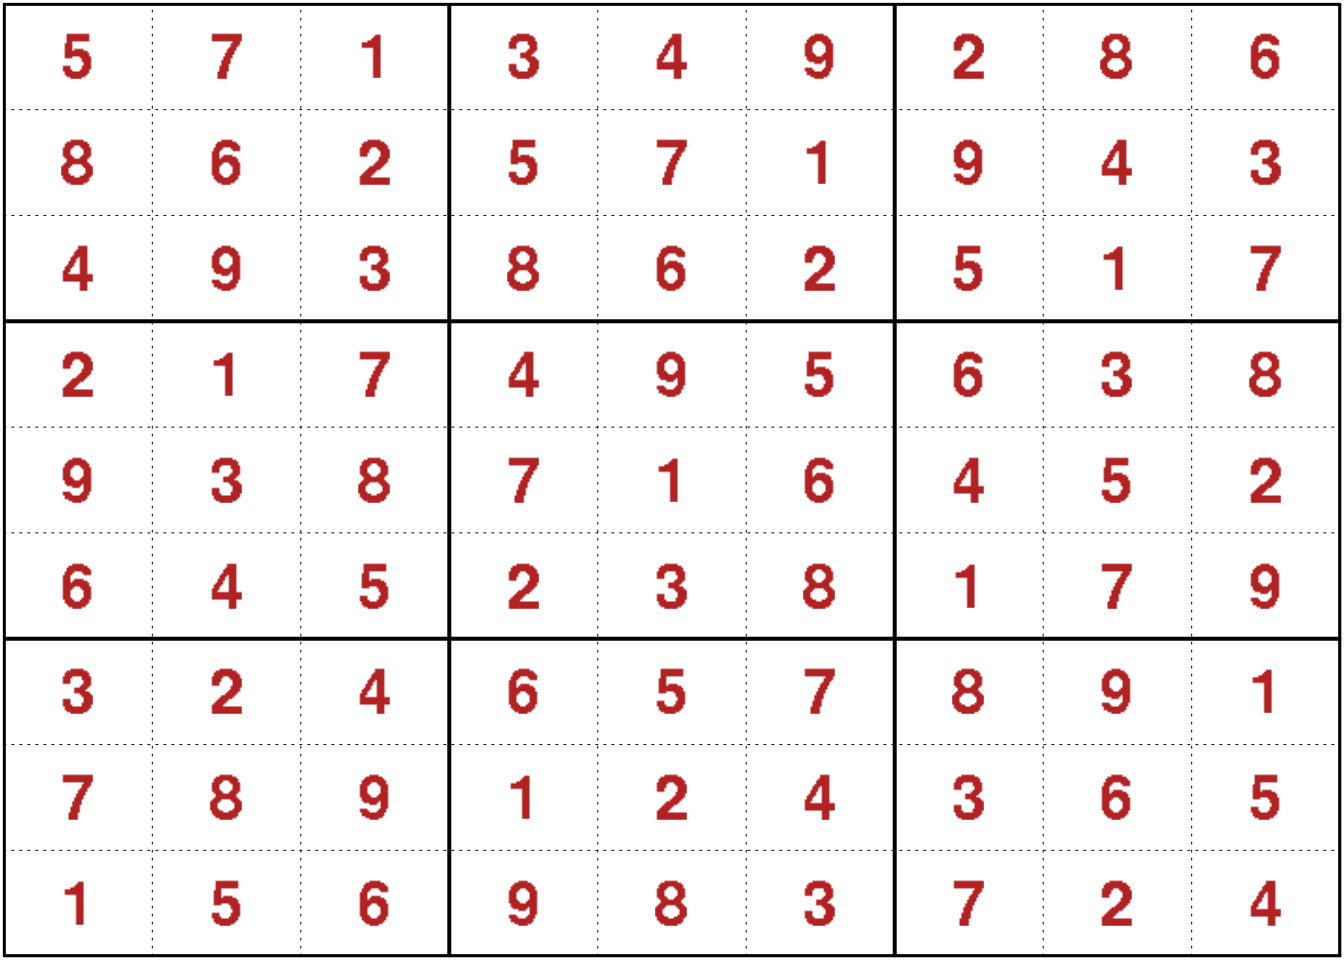
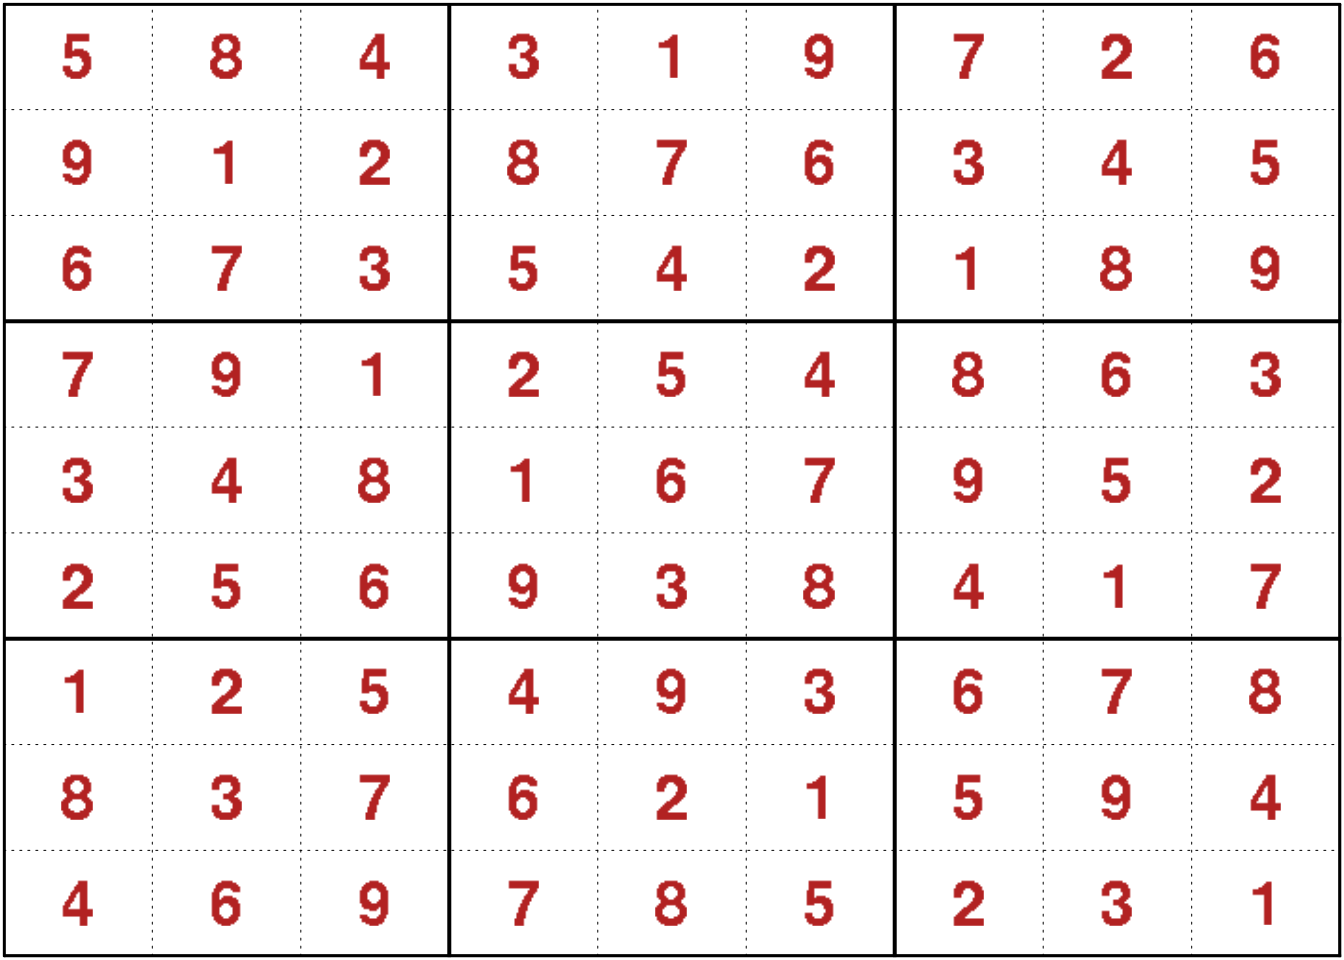
update use cases
git-svn-id: svn://svn.r-forge.r-project.org/svnroot/roi@596 edb9625f-4e0d-4859-8d74-9fd3b1da38cb

diff --git a/www/use_case_sudoku.html b/www/use_case_sudoku.html
@@ -488,161 +488,161 @@ sudoku_solution</code></pre></div>
 <pre><code>## [[1]]
 ##                           
 ##  + - - - + - - - + - - - +
-##  | 5 7 1 | 3 4 9 | 2 8 6 |
-##  | 8 6 2 | 5 7 1 | 9 4 3 |
-##  | 4 9 3 | 8 6 2 | 5 1 7 |
+##  | 5 8 4 | 3 1 9 | 7 2 6 |
+##  | 9 1 2 | 8 7 6 | 3 4 5 |
+##  | 6 7 3 | 5 4 2 | 1 8 9 |
 ##  + - - - + - - - + - - - +
-##  | 2 1 7 | 4 9 5 | 6 3 8 |
-##  | 9 3 8 | 7 1 6 | 4 5 2 |
-##  | 6 4 5 | 2 3 8 | 1 7 9 |
+##  | 7 9 1 | 2 5 4 | 8 6 3 |
+##  | 3 4 8 | 1 6 7 | 9 5 2 |
+##  | 2 5 6 | 9 3 8 | 4 1 7 |
 ##  + - - - + - - - + - - - +
-##  | 3 2 4 | 6 5 7 | 8 9 1 |
-##  | 7 8 9 | 1 2 4 | 3 6 5 |
-##  | 1 5 6 | 9 8 3 | 7 2 4 |
+##  | 1 2 5 | 4 9 3 | 6 7 8 |
+##  | 8 3 7 | 6 2 1 | 5 9 4 |
+##  | 4 6 9 | 7 8 5 | 2 3 1 |
 ##  + - - - + - - - + - - - +
 ## 
 ## [[2]]
 ##                           
 ##  + - - - + - - - + - - - +
-##  | 2 7 1 | 5 6 9 | 4 8 3 |
-##  | 8 6 4 | 3 7 1 | 2 5 9 |
-##  | 5 9 3 | 8 4 2 | 7 1 6 |
+##  | 2 4 8 | 3 1 6 | 9 7 5 |
+##  | 5 1 6 | 8 7 9 | 3 4 2 |
+##  | 3 9 7 | 5 4 2 | 1 8 6 |
 ##  + - - - + - - - + - - - +
-##  | 1 2 6 | 7 9 4 | 5 3 8 |
-##  | 3 8 7 | 6 1 5 | 9 4 2 |
-##  | 9 4 5 | 2 3 8 | 1 6 7 |
+##  | 7 8 1 | 9 5 4 | 6 2 3 |
+##  | 6 3 4 | 1 2 7 | 8 5 9 |
+##  | 9 2 5 | 6 3 8 | 4 1 7 |
 ##  + - - - + - - - + - - - +
-##  | 6 3 2 | 4 5 7 | 8 9 1 |
-##  | 7 5 9 | 1 8 6 | 3 2 4 |
-##  | 4 1 8 | 9 2 3 | 6 7 5 |
+##  | 1 5 2 | 4 9 3 | 7 6 8 |
+##  | 8 7 3 | 2 6 1 | 5 9 4 |
+##  | 4 6 9 | 7 8 5 | 2 3 1 |
 ##  + - - - + - - - + - - - +
 ## 
 ## [[3]]
 ##                           
 ##  + - - - + - - - + - - - +
-##  | 4 7 1 | 2 3 9 | 6 8 5 |
-##  | 8 6 2 | 4 5 7 | 9 1 3 |
-##  | 5 9 3 | 8 1 6 | 4 2 7 |
+##  | 2 8 4 | 3 1 9 | 7 6 5 |
+##  | 9 1 5 | 8 7 6 | 3 4 2 |
+##  | 3 7 6 | 5 4 2 | 1 8 9 |
 ##  + - - - + - - - + - - - +
-##  | 1 2 6 | 7 9 4 | 5 3 8 |
-##  | 9 3 8 | 1 6 5 | 7 4 2 |
-##  | 7 4 5 | 3 2 8 | 1 6 9 |
+##  | 7 2 1 | 9 3 4 | 8 5 6 |
+##  | 6 5 8 | 1 2 7 | 9 3 4 |
+##  | 4 9 3 | 6 5 8 | 2 1 7 |
 ##  + - - - + - - - + - - - +
-##  | 3 5 4 | 6 7 2 | 8 9 1 |
-##  | 2 8 9 | 5 4 1 | 3 7 6 |
-##  | 6 1 7 | 9 8 3 | 2 5 4 |
+##  | 1 3 2 | 4 9 5 | 6 7 8 |
+##  | 8 4 7 | 2 6 3 | 5 9 1 |
+##  | 5 6 9 | 7 8 1 | 4 2 3 |
 ##  + - - - + - - - + - - - +
 ## 
 ## [[4]]
 ##                           
 ##  + - - - + - - - + - - - +
-##  | 5 7 1 | 4 3 9 | 2 8 6 |
-##  | 8 6 4 | 2 7 5 | 9 1 3 |
-##  | 2 9 3 | 8 1 6 | 4 5 7 |
+##  | 8 5 4 | 3 1 9 | 2 7 6 |
+##  | 9 1 6 | 8 7 2 | 3 4 5 |
+##  | 3 7 2 | 5 4 6 | 1 8 9 |
 ##  + - - - + - - - + - - - +
-##  | 3 2 7 | 5 9 1 | 6 4 8 |
-##  | 9 1 8 | 7 6 4 | 5 3 2 |
-##  | 6 4 5 | 3 2 8 | 1 7 9 |
+##  | 7 3 1 | 9 6 4 | 8 5 2 |
+##  | 2 9 8 | 1 5 7 | 6 3 4 |
+##  | 6 4 5 | 2 3 8 | 9 1 7 |
 ##  + - - - + - - - + - - - +
-##  | 4 3 2 | 6 5 7 | 8 9 1 |
-##  | 7 5 9 | 1 8 2 | 3 6 4 |
-##  | 1 8 6 | 9 4 3 | 7 2 5 |
+##  | 1 2 3 | 4 9 5 | 7 6 8 |
+##  | 4 8 7 | 6 2 3 | 5 9 1 |
+##  | 5 6 9 | 7 8 1 | 4 2 3 |
 ##  + - - - + - - - + - - - +
 ## 
 ## [[5]]
 ##                           
 ##  + - - - + - - - + - - - +
-##  | 2 7 1 | 4 3 5 | 6 8 9 |
-##  | 8 6 4 | 2 7 9 | 5 1 3 |
-##  | 5 9 3 | 8 6 1 | 2 7 4 |
+##  | 9 8 4 | 3 1 2 | 6 7 5 |
+##  | 6 1 5 | 8 7 9 | 3 4 2 |
+##  | 2 3 7 | 5 4 6 | 1 8 9 |
 ##  + - - - + - - - + - - - +
-##  | 3 2 6 | 1 9 4 | 7 5 8 |
-##  | 7 1 8 | 3 5 6 | 9 4 2 |
-##  | 9 4 5 | 7 2 8 | 1 3 6 |
+##  | 7 5 1 | 9 6 4 | 8 2 3 |
+##  | 8 9 2 | 1 3 7 | 4 5 6 |
+##  | 3 4 6 | 2 5 8 | 9 1 7 |
 ##  + - - - + - - - + - - - +
-##  | 6 3 7 | 5 4 2 | 8 9 1 |
-##  | 4 8 9 | 6 1 7 | 3 2 5 |
-##  | 1 5 2 | 9 8 3 | 4 6 7 |
+##  | 5 2 3 | 4 9 1 | 7 6 8 |
+##  | 4 7 8 | 6 2 3 | 5 9 1 |
+##  | 1 6 9 | 7 8 5 | 2 3 4 |
 ##  + - - - + - - - + - - - +
 ## 
 ## [[6]]
 ##                           
 ##  + - - - + - - - + - - - +
-##  | 5 7 1 | 3 4 2 | 6 8 9 |
-##  | 8 6 4 | 5 7 9 | 2 1 3 |
-##  | 2 9 3 | 8 6 1 | 7 4 5 |
+##  | 2 8 4 | 3 1 9 | 6 7 5 |
+##  | 6 1 5 | 8 7 2 | 3 4 9 |
+##  | 9 3 7 | 5 4 6 | 1 8 2 |
 ##  + - - - + - - - + - - - +
-##  | 1 2 6 | 7 9 5 | 4 3 8 |
-##  | 3 8 7 | 4 1 6 | 9 5 2 |
-##  | 9 4 5 | 2 3 8 | 1 6 7 |
+##  | 7 2 1 | 6 5 4 | 9 3 8 |
+##  | 8 9 6 | 1 3 7 | 2 5 4 |
+##  | 5 4 3 | 9 2 8 | 7 1 6 |
 ##  + - - - + - - - + - - - +
-##  | 7 3 2 | 6 5 4 | 8 9 1 |
-##  | 4 5 9 | 1 8 7 | 3 2 6 |
-##  | 6 1 8 | 9 2 3 | 5 7 4 |
+##  | 3 5 2 | 4 9 1 | 8 6 7 |
+##  | 4 7 8 | 2 6 3 | 5 9 1 |
+##  | 1 6 9 | 7 8 5 | 4 2 3 |
 ##  + - - - + - - - + - - - +
 ## 
 ## [[7]]
 ##                           
 ##  + - - - + - - - + - - - +
-##  | 5 7 1 | 4 3 2 | 6 8 9 |
-##  | 8 6 2 | 7 1 9 | 5 3 4 |
-##  | 4 9 3 | 8 6 5 | 2 1 7 |
+##  | 8 4 5 | 6 1 3 | 9 2 7 |
+##  | 6 1 2 | 8 7 9 | 3 4 5 |
+##  | 9 3 7 | 5 4 2 | 1 8 6 |
 ##  + - - - + - - - + - - - +
-##  | 1 2 7 | 3 9 6 | 4 5 8 |
-##  | 6 3 8 | 5 4 1 | 9 7 2 |
-##  | 9 4 5 | 2 7 8 | 1 6 3 |
+##  | 7 2 1 | 9 6 4 | 8 5 3 |
+##  | 3 5 8 | 1 2 7 | 6 9 4 |
+##  | 4 9 6 | 3 5 8 | 7 1 2 |
 ##  + - - - + - - - + - - - +
-##  | 3 5 4 | 6 2 7 | 8 9 1 |
-##  | 7 8 9 | 1 5 4 | 3 2 6 |
-##  | 2 1 6 | 9 8 3 | 7 4 5 |
+##  | 5 7 3 | 4 9 1 | 2 6 8 |
+##  | 1 8 4 | 2 3 6 | 5 7 9 |
+##  | 2 6 9 | 7 8 5 | 4 3 1 |
 ##  + - - - + - - - + - - - +
 ## 
 ## [[8]]
 ##                           
 ##  + - - - + - - - + - - - +
-##  | 5 7 1 | 3 4 2 | 6 8 9 |
-##  | 8 6 4 | 5 1 9 | 2 7 3 |
-##  | 2 9 3 | 8 6 7 | 5 1 4 |
+##  | 2 4 8 | 3 1 9 | 6 7 5 |
+##  | 5 1 6 | 8 7 2 | 3 4 9 |
+##  | 9 3 7 | 5 4 6 | 1 8 2 |
 ##  + - - - + - - - + - - - +
-##  | 3 1 2 | 4 9 6 | 7 5 8 |
-##  | 7 8 6 | 1 3 5 | 9 4 2 |
-##  | 9 4 5 | 7 2 8 | 1 3 6 |
+##  | 7 2 1 | 9 3 4 | 8 5 6 |
+##  | 6 8 5 | 1 2 7 | 9 3 4 |
+##  | 4 9 3 | 6 5 8 | 2 1 7 |
 ##  + - - - + - - - + - - - +
-##  | 6 3 7 | 2 5 4 | 8 9 1 |
-##  | 4 5 9 | 6 8 1 | 3 2 7 |
-##  | 1 2 8 | 9 7 3 | 4 6 5 |
+##  | 8 5 2 | 4 9 1 | 7 6 3 |
+##  | 1 7 4 | 2 6 3 | 5 9 8 |
+##  | 3 6 9 | 7 8 5 | 4 2 1 |
 ##  + - - - + - - - + - - - +
 ## 
 ## [[9]]
 ##                           
 ##  + - - - + - - - + - - - +
-##  | 5 7 1 | 4 6 2 | 9 8 3 |
-##  | 8 6 4 | 1 3 9 | 5 2 7 |
-##  | 2 9 3 | 8 7 5 | 6 1 4 |
+##  | 8 7 4 | 6 1 3 | 9 5 2 |
+##  | 2 1 5 | 8 7 9 | 3 4 6 |
+##  | 6 9 3 | 5 4 2 | 1 8 7 |
 ##  + - - - + - - - + - - - +
-##  | 1 2 7 | 3 9 6 | 4 5 8 |
-##  | 9 8 6 | 5 4 1 | 7 3 2 |
-##  | 3 4 5 | 7 2 8 | 1 6 9 |
+##  | 7 2 1 | 9 3 4 | 8 6 5 |
+##  | 9 5 8 | 1 6 7 | 2 3 4 |
+##  | 4 3 6 | 2 5 8 | 7 1 9 |
 ##  + - - - + - - - + - - - +
-##  | 7 3 2 | 6 5 4 | 8 9 1 |
-##  | 6 1 9 | 2 8 7 | 3 4 5 |
-##  | 4 5 8 | 9 1 3 | 2 7 6 |
+##  | 3 8 2 | 4 9 5 | 6 7 1 |
+##  | 1 4 7 | 3 2 6 | 5 9 8 |
+##  | 5 6 9 | 7 8 1 | 4 2 3 |
 ##  + - - - + - - - + - - - +
 ## 
 ## [[10]]
 ##                           
 ##  + - - - + - - - + - - - +
-##  | 2 7 1 | 3 6 9 | 5 8 4 |
-##  | 8 6 4 | 1 5 7 | 9 2 3 |
-##  | 5 9 3 | 8 2 4 | 6 1 7 |
+##  | 2 8 4 | 3 1 6 | 9 7 5 |
+##  | 9 1 5 | 8 7 2 | 3 4 6 |
+##  | 3 7 6 | 5 4 9 | 1 8 2 |
 ##  + - - - + - - - + - - - +
-##  | 6 1 2 | 4 9 5 | 7 3 8 |
-##  | 9 3 8 | 6 7 1 | 4 5 2 |
-##  | 7 4 5 | 2 3 8 | 1 6 9 |
+##  | 7 3 1 | 6 2 4 | 8 5 9 |
+##  | 6 9 8 | 1 5 7 | 4 2 3 |
+##  | 4 5 2 | 9 3 8 | 6 1 7 |
 ##  + - - - + - - - + - - - +
-##  | 3 2 7 | 5 4 6 | 8 9 1 |
-##  | 1 5 9 | 7 8 2 | 3 4 6 |
-##  | 4 8 6 | 9 1 3 | 2 7 5 |
+##  | 8 2 3 | 4 9 5 | 7 6 1 |
+##  | 1 4 7 | 2 6 3 | 5 9 8 |
+##  | 5 6 9 | 7 8 1 | 2 3 4 |
 ##  + - - - + - - - + - - - +</code></pre>
 <div id="solve-a-sudoku-from-httpwww.sudoku.org.ukdailysudoku.asp" class="section level3">
 <h3>Solve a Sudoku from <code>http://www.sudoku.org.uk/DailySudoku.asp</code></h3>

diff --git a/www/use_case_ridge_regression.html b/www/use_case_ridge_regression.html
@@ -381,7 +381,6 @@ dbind &lt;-<span class="st"> </span>function(...) {
     Q0 &lt;-<span class="st"> </span><span class="kw">dbind</span>(<span class="kw">stdm</span>(<span class="dv">2</span> *<span class="st"> </span>lambda, n), <span class="kw">stdm</span>(<span class="dv">1</span>, m))
     a0 &lt;-<span class="st"> </span><span class="kw">c</span>(<span class="dt">b =</span> <span class="kw">double</span>(n), <span class="dt">g =</span> <span class="kw">double</span>(m))
     op &lt;-<span class="st"> </span><span class="kw">OP</span>(<span class="dt">objective =</span> <span class="kw">Q_objective</span>(<span class="dt">Q =</span> Q0, <span class="dt">L =</span> a0))
-    ## y - X %*% beta = gamma  &lt;=&gt;  X %*% beta + gamma = y
     A1 &lt;-<span class="st"> </span><span class="kw">cbind</span>(x, <span class="kw">stdm</span>(<span class="dv">1</span>, m))
     <span class="kw">constraints</span>(op) &lt;-<span class="st"> </span><span class="kw">L_constraint</span>(A1, <span class="kw">eq</span>(m), y)
     <span class="kw">bounds</span>(op) &lt;-<span class="st"> </span><span class="kw">V_bound</span>(<span class="dt">ld =</span> -<span class="ot">Inf</span>, <span class="dt">nobj =</span> <span class="kw">ncol</span>(Q0))

diff --git a/www/use_case_portfolio_optimization.html b/www/use_case_portfolio_optimization.html
@@ -1304,9 +1304,9 @@ best_solution &lt;-<span class="st"> </span><span class="kw">which.max</span>(<s
 <pre><code>##  MMM.Adjusted  AXP.Adjusted AAPL.Adjusted   BA.Adjusted  CAT.Adjusted 
 ##         0.000         0.000         0.000         0.000         0.000 
 ##  CVX.Adjusted CSCO.Adjusted   KO.Adjusted DWDP.Adjusted  XOM.Adjusted 
-##         0.000         0.000         0.000         0.304         0.000 
+##         0.000         0.000         0.000         0.303         0.000 
 ##   GS.Adjusted   HD.Adjusted  IBM.Adjusted INTC.Adjusted  JNJ.Adjusted 
-##         0.696         0.000         0.000         0.000         0.000 
+##         0.697         0.000         0.000         0.000         0.000 
 ##  JPM.Adjusted  MCD.Adjusted  MRK.Adjusted MSFT.Adjusted  NKE.Adjusted 
 ##         0.000         0.000         0.000         0.000         0.000 
 ##  PFE.Adjusted   PG.Adjusted  TRV.Adjusted  UNH.Adjusted  UTX.Adjusted 

diff --git a/www/use_cases.html b/www/use_cases.html
@@ -310,7 +310,6 @@ div.tocify {
 <div id="linear-regression" class="section level1">
 <h1>Linear regression</h1>
 <ul>
-<li>LAD (TODO)</li>
 <li><a href="use_case_linear_regression.html">Ordinary least squares</a></li>
 </ul>
 </div>
